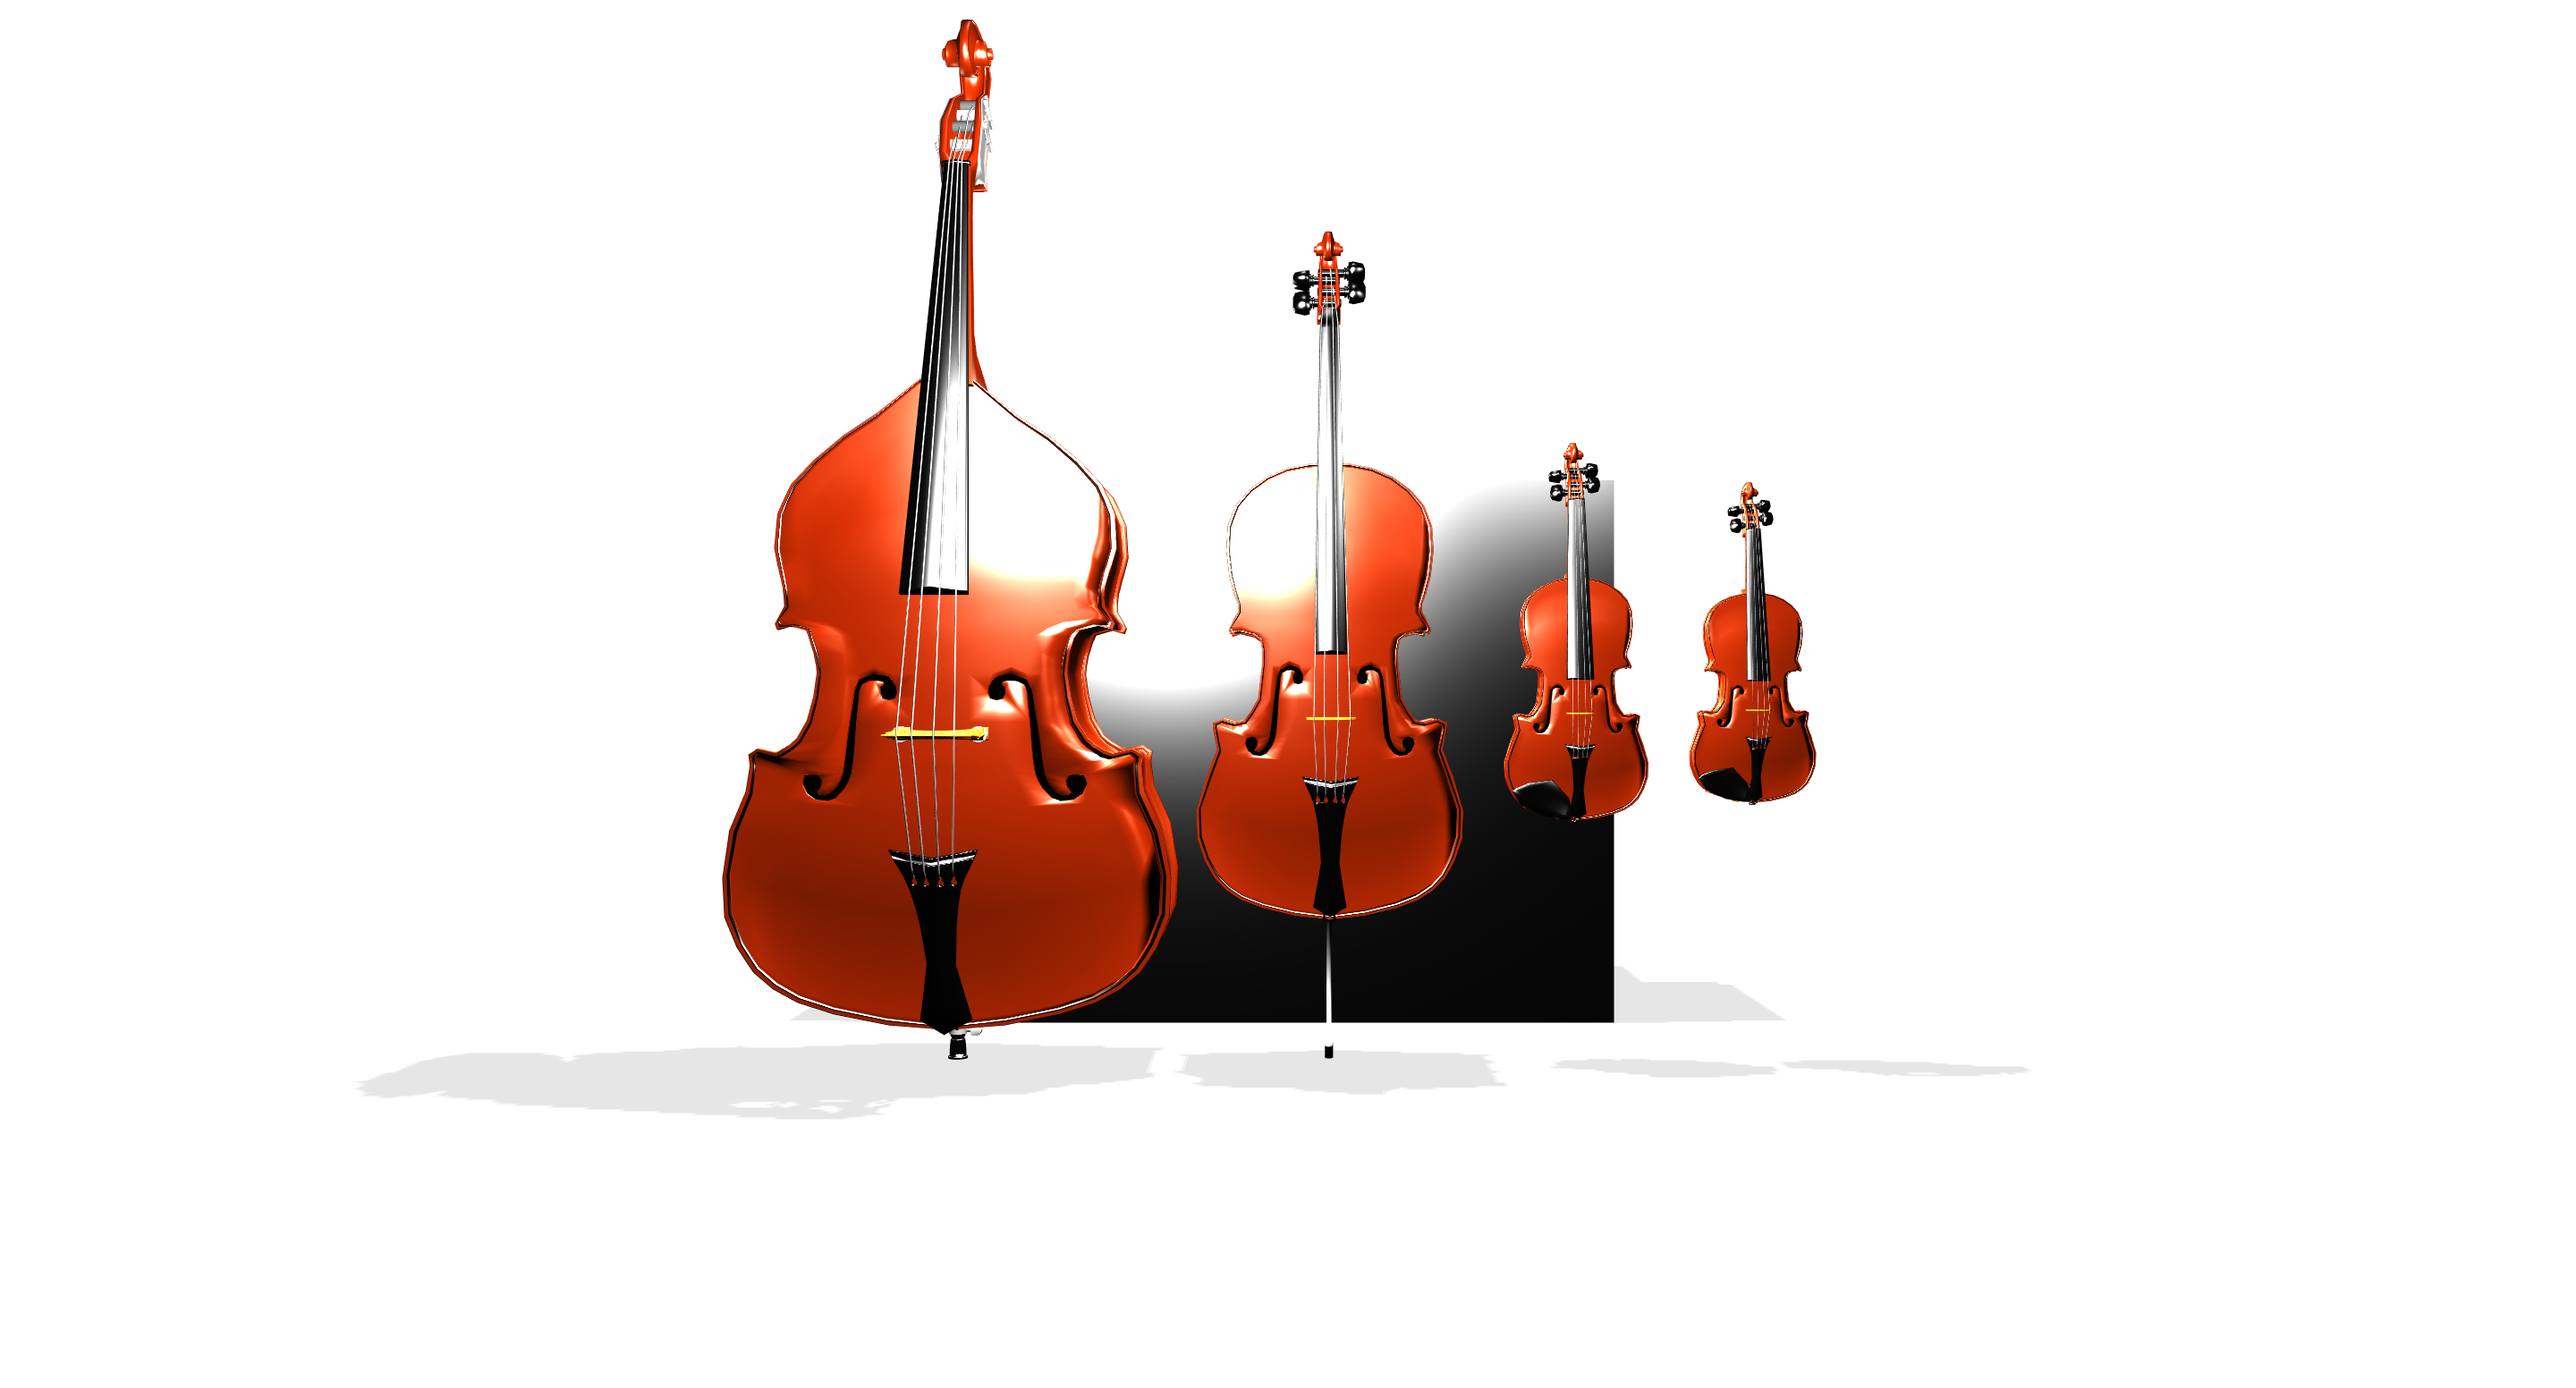
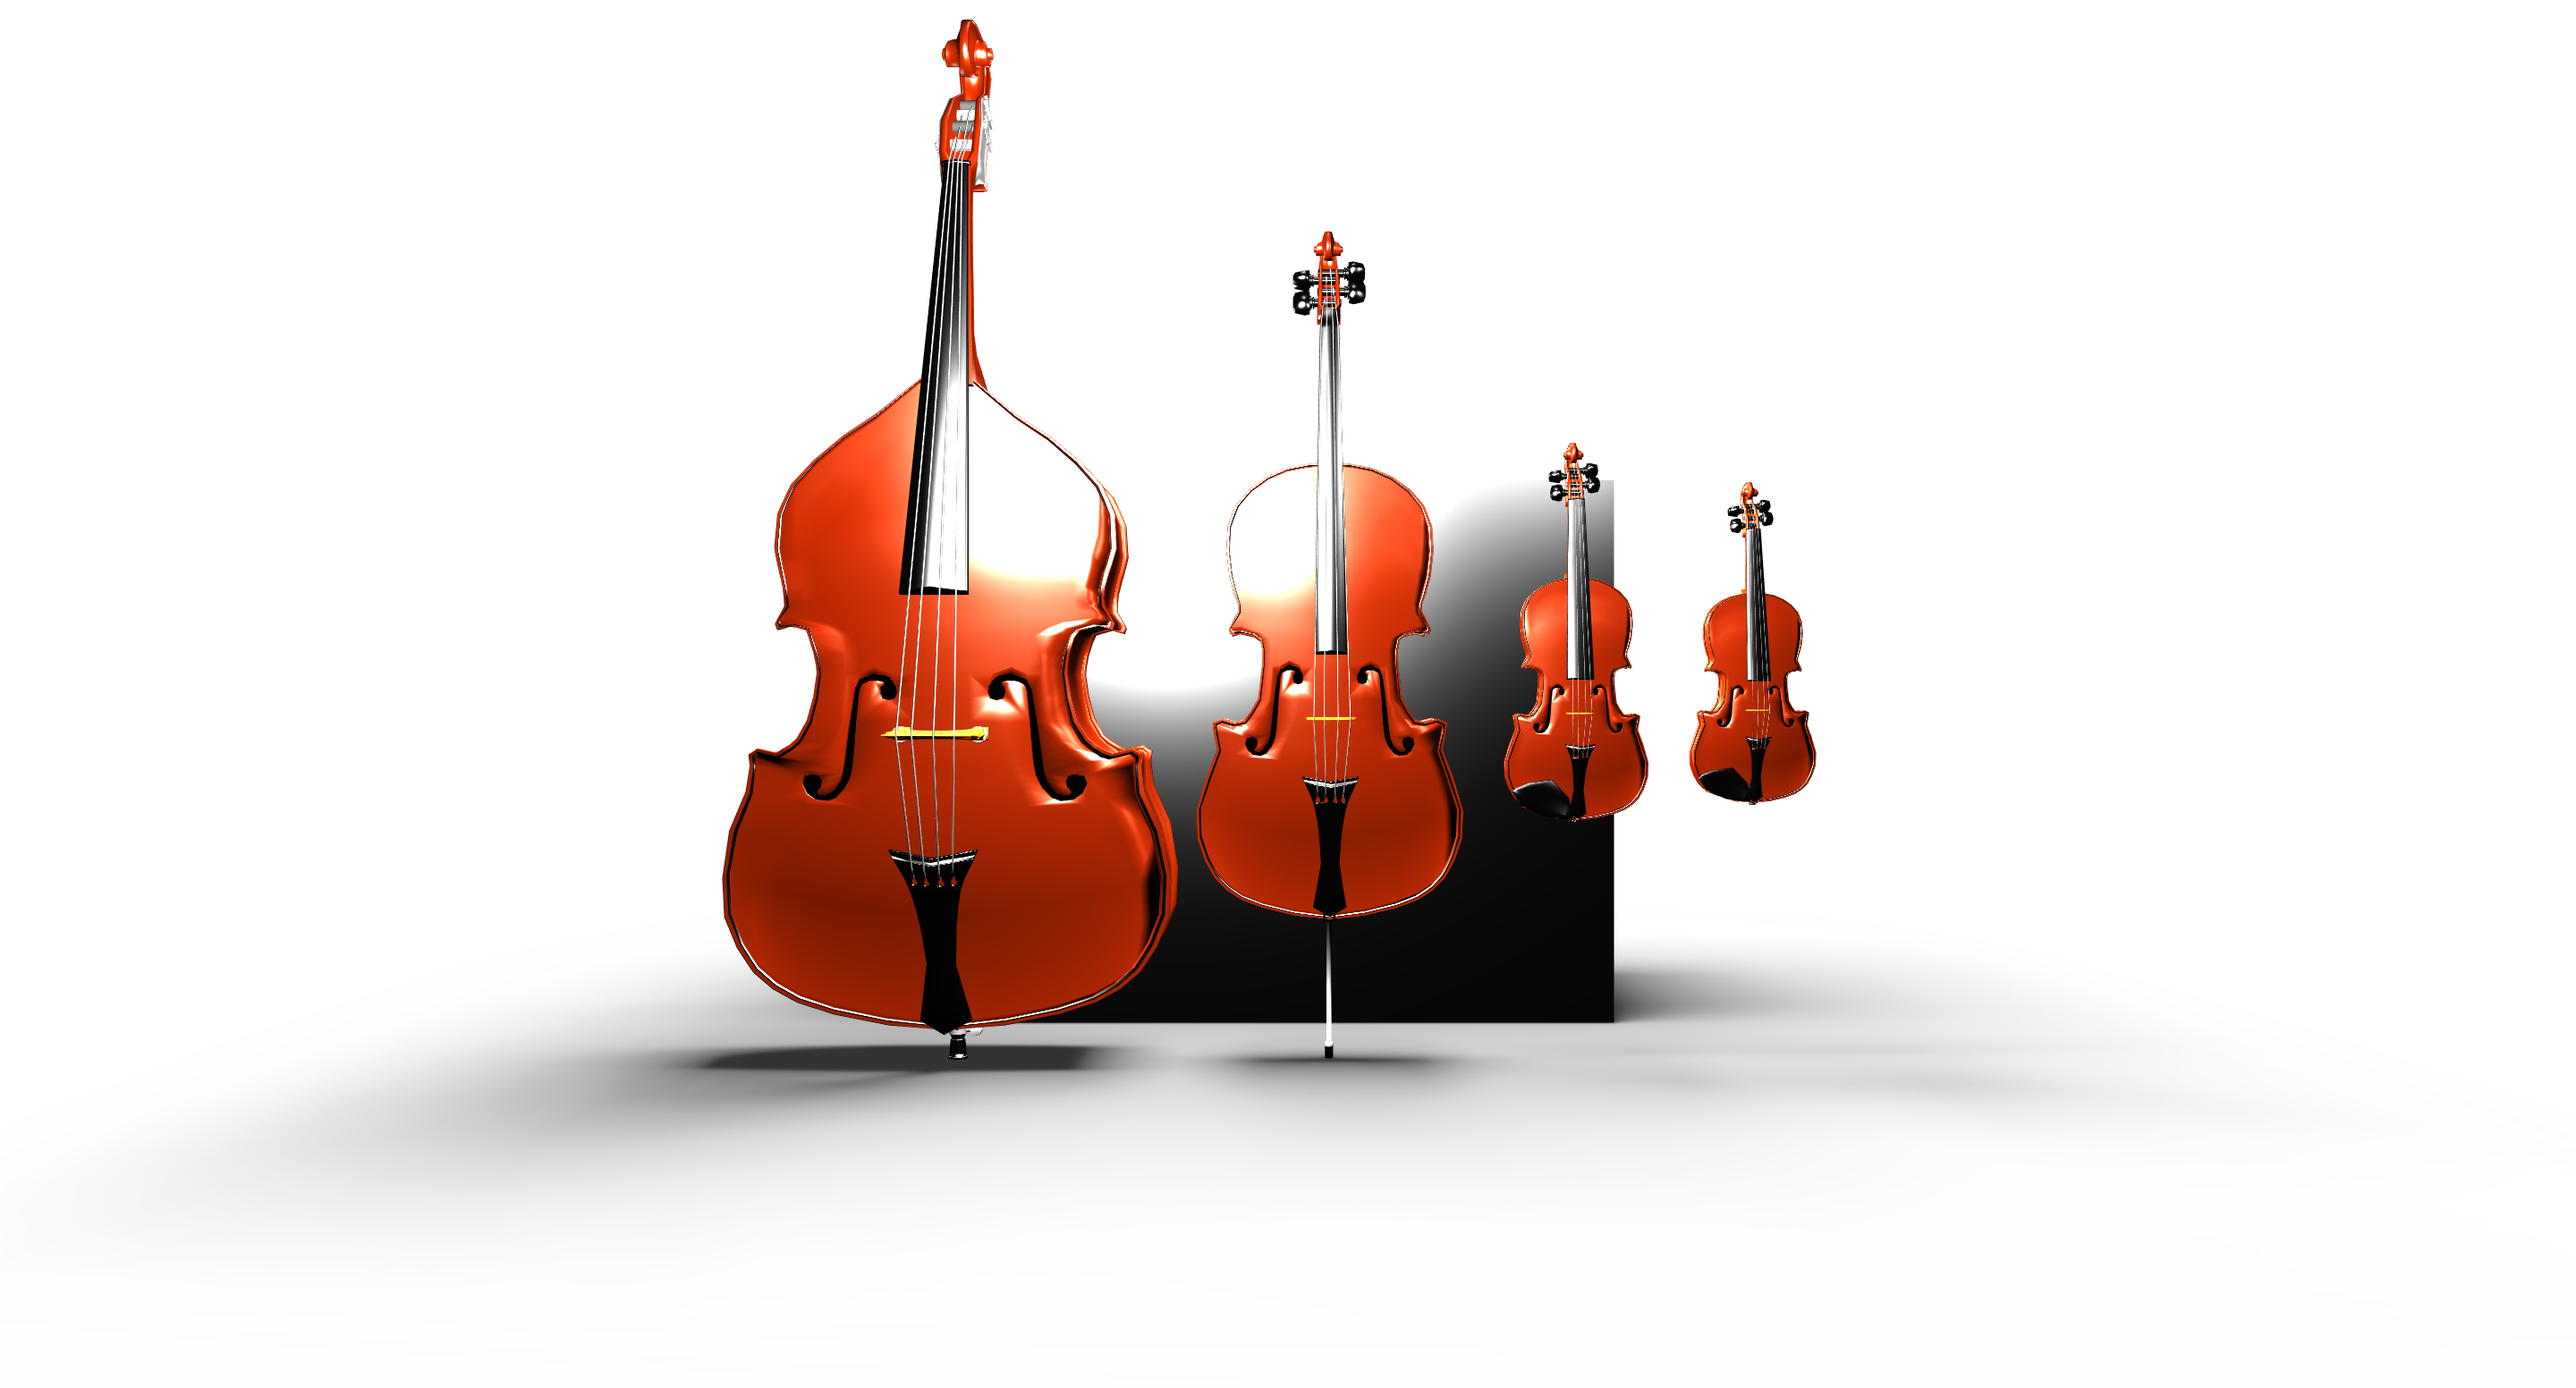
Fixed loader and shadows

Changed region(s): [[0.0938, 0.6804, 0.8125, 0.866]]

diff --git a/js/three-instruments.js b/js/three-instruments.js
@@ -40,8 +40,6 @@ function init()
         renderer = new THREE.CanvasRenderer();
     renderer.setPixelRatio( window.devicePixelRatio );
     renderer.setSize(SCREEN_WIDTH, SCREEN_HEIGHT);
-    renderer.shadowMap.enabled = true;
-    renderer.shadowMap.type = THREE.PCFSoftShadowMap;
     container = document.getElementById( 'ThreeInstruments' );
     container.appendChild( renderer.domElement );
     // EVENTS
@@ -53,6 +51,7 @@ function init()
     controls.enableZoom = false;
     controls.enablePan = false;
     controls.autoRotate = true;
+  controls.autoRotateSpeed = 1;
     controls.maxPolarAngle = Math.PI - Math.acos(39.9929/200);
     controls.minPolarAngle = 1/9 * Math.PI;
     // LIGHT
@@ -67,20 +66,18 @@ function init()
     scene.add(light3);
     var light4 = new THREE.PointLight(0xffffff,1);
     light4.position.set(0,150,0);
-    light4.castShadow = true;
     scene.add(light4);
     var light5 = new THREE.PointLight(0xffffff,4);
     light5.position.set(22.703,48.3787,-83.9535);
     scene.add(light5);
     //FLOOR
-    var floorMaterial = new THREE.ShadowMaterial({ side: THREE.DoubleSide });
-    floorMaterial.opacity = 0.1;
-    //var floorMaterial = new THREE.MeshStandardMaterial( { color: 0x00ff00 } )
-    var floorGeometry = new THREE.PlaneGeometry(500, 500, 10, 10);
+    var floorTexture = new THREE.TextureLoader().load( 'img/shadows.png' );
+    var floorMaterial = new THREE.MeshBasicMaterial( { map: floorTexture } );
+    floorMaterial.opacity = 0.8;
+    var floorGeometry = new THREE.PlaneGeometry(244.771, 244.771, 10, 10);
     var floor = new THREE.Mesh(floorGeometry, floorMaterial);
     floor.rotation.x = -Math.PI / 2;
     floor.position.y = -39.9929;
-    floor.receiveShadow = true;
     scene.add(floor);
     ////////////
     // CUSTOM //
@@ -112,7 +109,6 @@ function addViolinToScene( geometry, materials )
     violin.position.set(-50.9649,0,-20.2596+4.218475);
     violin.rotation.set(0,Math.PI,0)
     violin.scale.set(1,1,1);
-    violin.castShadow = true;
     violin.userData = { URL: "violin/"};
     scene.add( violin );
 }
@@ -124,7 +120,6 @@ function addViolaToScene( geometry, materials )
     viola.position.set(-31.5739,0,-20.2596+4.218475);
     viola.rotation.set(0,Math.PI,0);
     viola.scale.set(1,1,1);
-    viola.castShadow = true;
     viola.userData = { URL: "viola/"};
     scene.add( viola );
 }
@@ -136,7 +131,6 @@ function addCelloToScene( geometry, materials )
     cello.position.set(-4.50507,0,-20.2596+4.218475);
     cello.rotation.set(0,Math.PI,0);
     cello.scale.set(1,1,1);
-    cello.castShadow = true;
     cello.userData = { URL: "cello/"};
     scene.add( cello );
 }
@@ -148,7 +142,6 @@ function addBassToScene( geometry, materials )
   bass.position.set(36.2411,-2.54195,-20.2596+4.218475);
   bass.rotation.set(0,Math.PI,0);
   bass.scale.set(1,1,1);
-  bass.castShadow = true;
   bass.userData = { URL: "bass/"};
   scene.add( bass );
 }
@@ -159,7 +152,6 @@ function addPianoToScene( geometry, materials )
     piano = new THREE.Mesh( geometry, pianoMaterial );
     piano.position.set(0,-6.89087,9.53965+4.218475);
     piano.scale.set(1,1,1);
-    piano.castShadow = true;
     piano.userData = { URL: "piano/"};
     scene.add( piano );
 }

diff --git a/js/home.js b/js/home.js
@@ -1,0 +1,39 @@
+var body = document.body;
+var container = document.getElementById( 'ThreeInstruments' );
+
+// Prepare to load the WebGL scene.
+var sceneJS = document.createElement("script");
+sceneJS.type = "text/javascript";
+sceneJS.src = "js/three-instruments.js";
+
+// Check for WebGL (from http://www.studyjs.com/webgl/webglcontext.html )
+var webgl = null;
+var canvas = document.createElement('canvas');
+var webglContextParams = ['webgl', 'experimental-webgl', 'webkit-3d', 'moz-webgl'];
+var webglContext = null;
+for (var index = 0; index < webglContextParams.length; index++) {
+  try {
+    webglContext = canvas.getContext(webglContextParams[index]);
+    if (webglContext) {
+      //breaking as it got context
+      break;
+    }
+  } catch (E) {
+    console.log(E);
+  }
+}
+if (webglContext === null || window.matchMedia('(prefers-reduced-motion)').matches) {
+  // No WebGL available, or the user wants reduced motion, so don't load the 3d scene.
+  webgl = false;
+  document.body.dataset.mobile = true;
+  container.dataset.loaded = "never";
+} else {
+  // WebGL is available, go ahead and load the scene!
+  webgl = true;
+  body.appendChild(sceneJS);
+  
+  if (/Mobi/.test(navigator.userAgent)) {
+    // Full size scene on mobile
+    document.body.dataset.webgl = "high";
+  }
+}

diff --git a/css/loader.css b/css/loader.css
@@ -1,9 +1,4 @@
 #ThreeInstruments {
-  position: relative;
-}
-
-/* Static placeholder image. Hidden via javascript when the 3D truck is loaded. */
-#ThreeInstruments:after {
   position: absolute;
   top: 0;
   left: 0;
@@ -12,22 +7,24 @@
   height: 100vh;
   content: "";
   opacity: 1;
-  background-image: url("../img/canvas-static.png");
-  background-repeat: no-repeat;
-  background-position: top center;
-  background-size: auto 100%;
   margin: 0 auto;
 }
-
-#ThreeInstruments * {
-  opacity: 0;
-}
-
 
 #ThreeInstruments[data-loaded="yes"] * {
   opacity: 1;
 }
 
-#ThreeInstruments[data-loaded="yes"]:after {
-  display: none;
+#ThreeInstruments[data-loaded="yes"] {
+  background-image: none;
+}
+
+#ThreeInstruments[data-loaded="no"] *, #ThreeInstruments[data-loaded="never"] * {
+  opacity: 0;
+}
+
+#ThreeInstruments[data-loaded="no"], #ThreeInstruments[data-loaded="never"] {
+  background-image: url("../img/canvas-static.png");
+  background-repeat: no-repeat;
+  background-position: top center;
+  background-size: auto 100%;
 }

diff --git a/index.html b/index.html
@@ -54,7 +54,7 @@
       </nav>
     </div>
   </div>
-  <div id="ThreeInstruments" data-loaded="no" style="position: absolute; left:0px; top:0px; z-index:8;"></div>
+  <div id="ThreeInstruments" data-loaded="no" style="z-index:8;"></div>
   <div class="title">
     <h1 class="heading">New Jersey Suzuki Workshop</h1>
   </div>
@@ -216,13 +216,13 @@
 <script src="js/THREEx.KeyboardState.js"></script>
 <script src="js/THREEx.FullScreen.js"></script>
 <script src="js/THREEx.WindowResize.js"></script>
+<script  src="js/home.js"></script>
 
 <script src="js/slides.js"></script>
 
 <script src="js/jquery.min.js"></script>
 
 <script  src="js/index.js"></script>
-<script  src="js/three-instruments.js"></script>
 
 </body>
 
